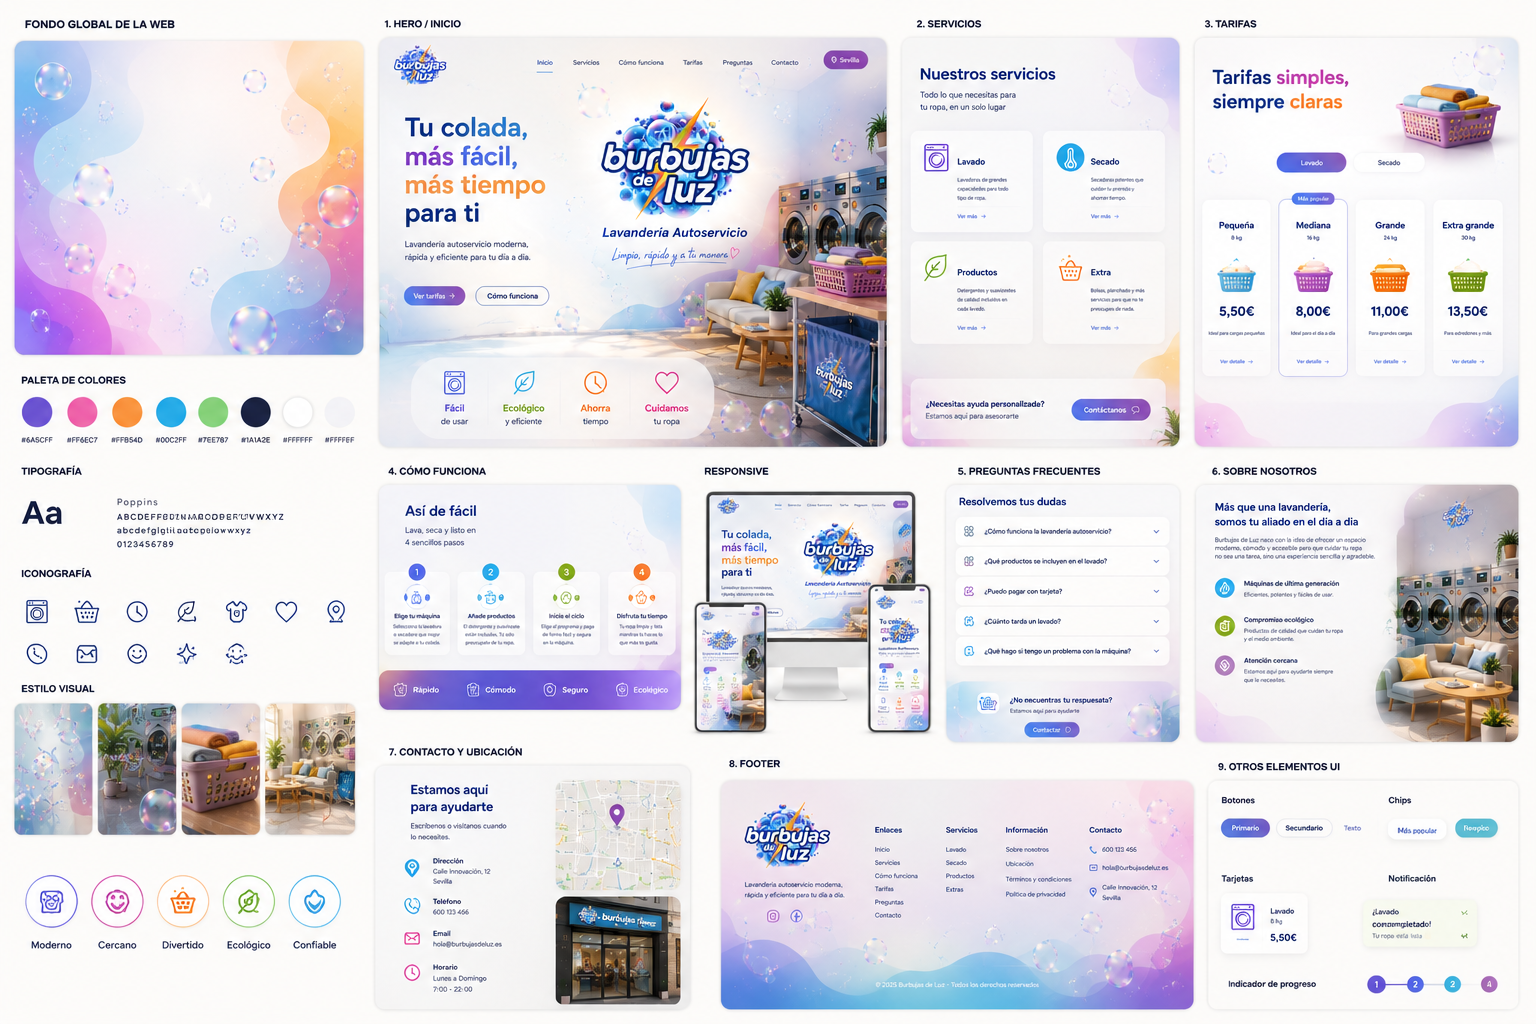
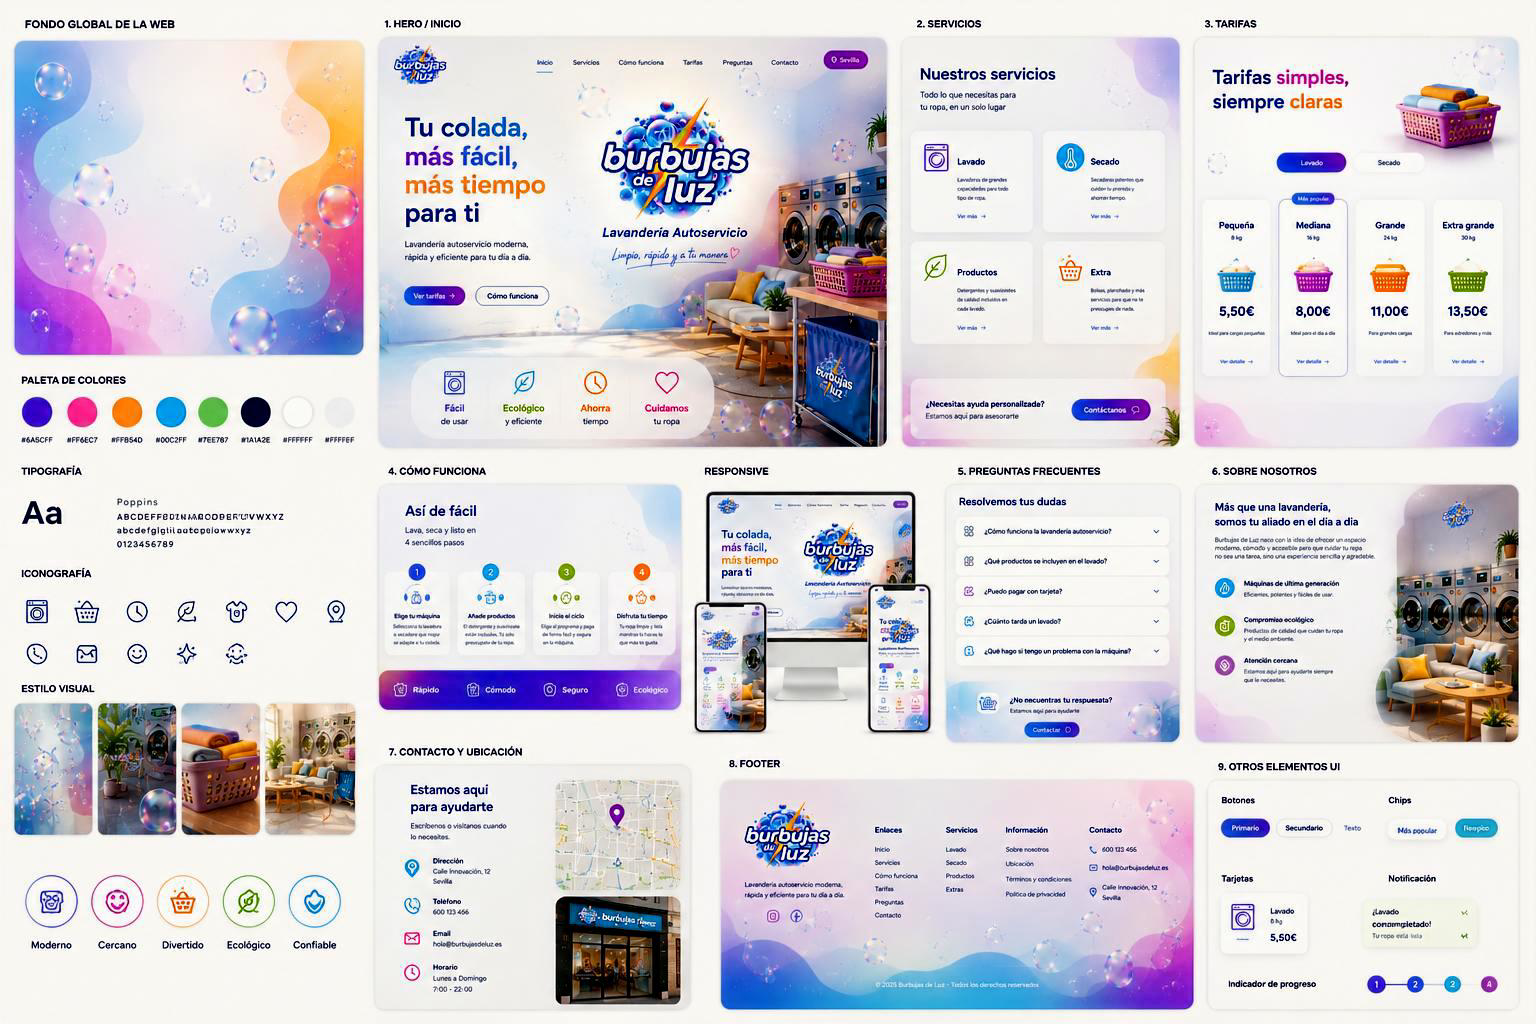
Update design board mockup and remove retired mockup 2 assets.

diff --git a/docs/DESIGN_SYSTEM.md b/docs/DESIGN_SYSTEM.md
@@ -646,7 +646,8 @@ el espacio de respeto se controla en CSS y no queda horneado en el bitmap.
 | `public/images/background-img-sm.webp` | Copia móvil en `public/`. Preferir `src/assets/`. | Redundante |
 | `public/images/background-img.png` | Original PNG sin optimizar, 2MB. No en repositorio. | Fuera del repo (untracked) |
 | `public/design/mockup_burbujas_de_luz1.webp` | Design board completo (paleta, tipografía, componentes, wireframes). 91KB. | Vigente |
-| `public/design/mockup_burbujas_de_luz2.webp` | Vista a pantalla completa de la web. 89KB. | Vigente |
+| `public/design/mockup_burbujas_de_luz1.png` | Fuente PNG del design board (actualizada). Preferir `.webp` en docs. | Vigente |
+| `public/design/mockup_burbujas_de_luz2.webp` / `.png` | Vista a pantalla completa (retirada; consolidada en el board 1). | Retirada |
 | `public/design/*.webp` (referencias hero, board, responsive) | Referencias de diseño originales | Ver D-019 |
 | `public/music/Ropa Limpia-web.mp3` | Pista ambiental lista para web. 264KB, 45s, mono 48kbps. | Vigente |
 | `public/music/Ropa Limpia.mp3` | Original, 2,5MB. No en repositorio. | Fuera del repo (untracked) |
